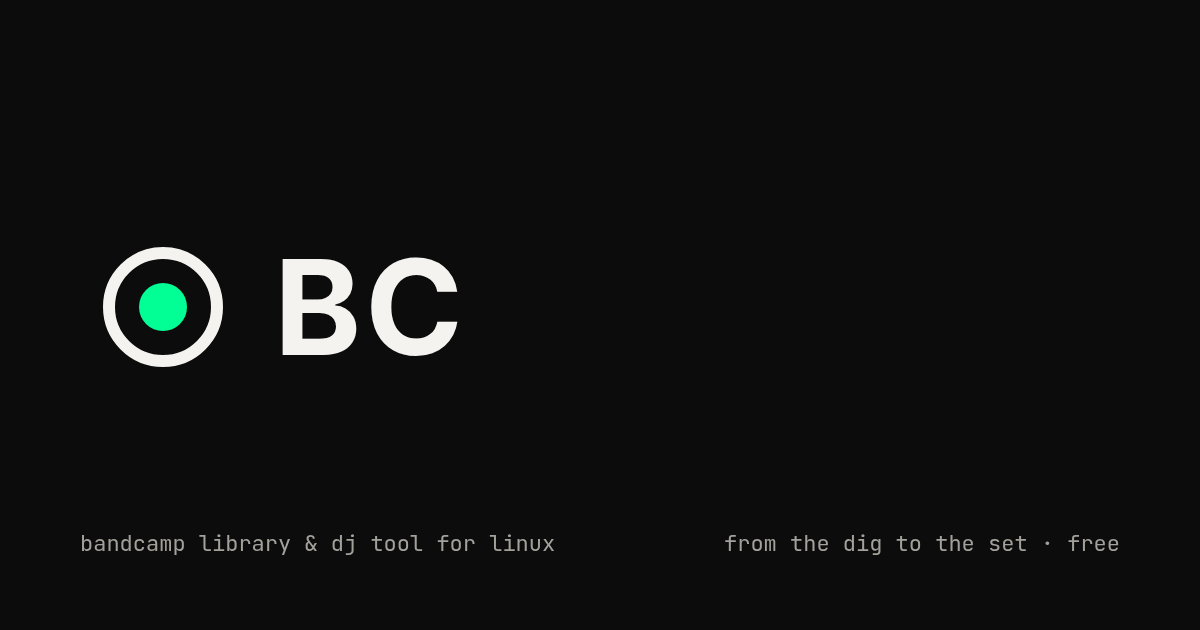
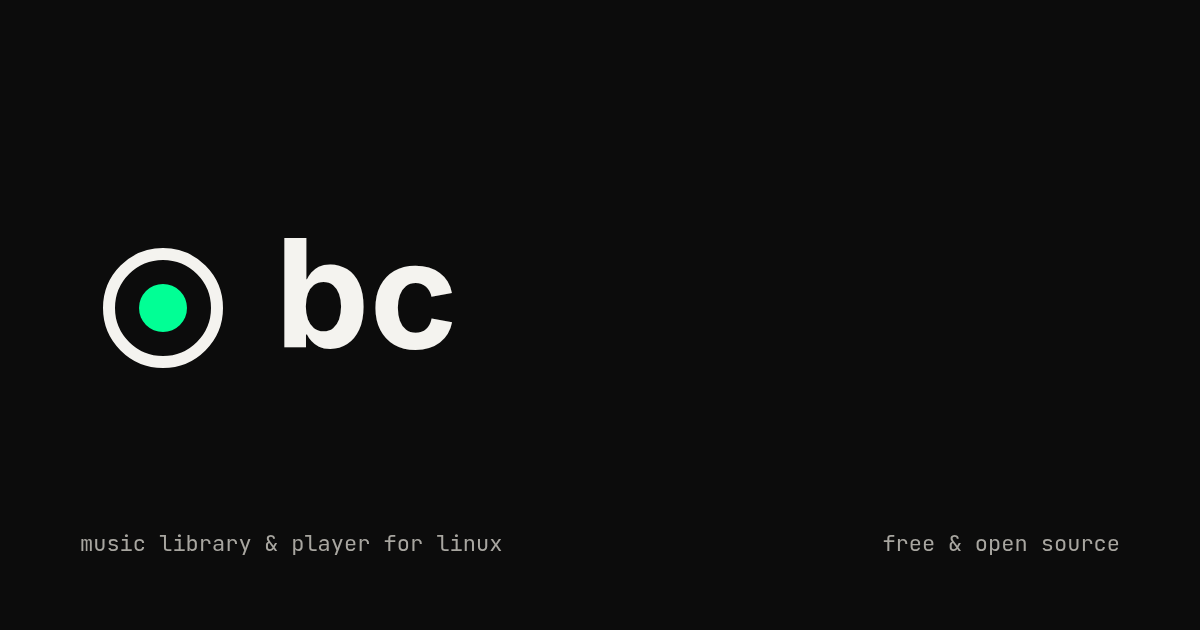
Update Open Graph metadata and improve page title and description for clarity

diff --git a/website/index.html b/website/index.html
@@ -3,8 +3,8 @@
 <head>
 <meta charset="utf-8">
 <meta name="viewport" content="width=device-width, initial-scale=1">
-<title>bc — bandcamp library &amp; dj tool for linux</title>
-<meta name="description" content="bc is a free, native Rust app for Linux that takes music from Bandcamp discovery to your DJ set: a fast library for collections of any size, Bandcamp explore and downloads, analysis, playlists, automixed DJ sets and a real-time audio engine.">
+<title>bc · music library &amp; player for linux</title>
+<meta name="description" content="bc is a free and open source music library and player for Linux, written in Rust, with Bandcamp search and downloads built in.">
 <meta name="theme-color" content="#F4F3EF" media="(prefers-color-scheme: light)">
 <meta name="theme-color" content="#0C0C0C" media="(prefers-color-scheme: dark)">
 <script>
@@ -20,9 +20,9 @@ try {
 <link rel="preload" href="assets/fonts/inter-latin-wght-normal.woff2" as="font" type="font/woff2" crossorigin>
 <link rel="stylesheet" href="style.css">
 <meta property="og:type" content="website">
-<meta property="og:title" content="bc — bandcamp library &amp; dj tool for linux">
-<meta property="og:description" content="From the dig to the set: Bandcamp discovery and downloads, a library without row caps, analysis and automixed DJ sets. Native Rust, free and open source.">
-<meta property="og:image" content="assets/img/og.png">
+<meta property="og:title" content="bc · music library &amp; player for linux">
+<meta property="og:description" content="Music library and player for Linux with Bandcamp search and downloads. Written in Rust, free and open source.">
+<meta property="og:image" content="assets/img/og.png?v=2">
 <meta name="twitter:card" content="summary_large_image">
 </head>
 <body>
@@ -37,8 +37,9 @@ try {
     </a>
     <div class="nav-links">
       <a href="#features">Features</a>
+      <a href="#library">Library</a>
+      <a href="#player">Player</a>
       <a href="#bandcamp">Bandcamp</a>
-      <a href="#sets">DJ sets</a>
       <a href="https://github.com/birkmann/bc-01">Source</a>
       <button class="theme-toggle" type="button" aria-label="Dark mode" aria-pressed="false">
         <svg class="sun" viewBox="0 0 24 24" aria-hidden="true"><circle cx="12" cy="12" r="4"/><path d="M12 2v2M12 20v2M4.9 4.9l1.4 1.4M17.7 17.7l1.4 1.4M2 12h2M20 12h2M4.9 19.1l1.4-1.4M17.7 6.3l1.4-1.4"/></svg>
@@ -52,9 +53,9 @@ try {
 <main id="main">
 
 <section class="wrap hero" id="top">
-  <span class="label">bandcamp library &amp; dj tool for linux · v0.1.0 · free &amp; open source</span>
-  <h1>From the dig<br>to the set.</h1>
-  <p class="lead">Find music on Bandcamp, keep it in a library that stays fast however large it grows, and mix it into DJ sets — one native app, written in Rust.</p>
+  <span class="label">linux · v0.1.0 · free &amp; open source</span>
+  <h1>Music library<br>and player.</h1>
+  <p class="lead">bc manages and plays your local music collection. Bandcamp search and downloads are built in. Written in Rust.</p>
   <div class="actions">
     <a class="pill pill-signal" href="#install">Install for Linux</a>
     <a class="pill pill-outline" href="https://github.com/birkmann/bc-01">View source</a>
@@ -69,31 +70,31 @@ try {
 </figure>
 
 <section class="wrap proof" aria-label="Measured results">
-  <div><span class="num">13&nbsp;ms</span><span class="what">to fetch a page of tracks from deep in a large library, sorted on the server</span></div>
-  <div><span class="num">1.5&nbsp;s</span><span class="what">from launch to a ready library — the Python app it replaces needed 110&nbsp;s</span></div>
-  <div><span class="num">0.05&nbsp;ms</span><span class="what">beatmatch phase error, measured through PipeWire on real hardware, 0 xruns</span></div>
-  <div><span class="num">kill&nbsp;-9</span><span class="what">a download killed mid-file resumes cleanly — never a truncated or untagged file</span></div>
+  <div><span class="num">1.5&nbsp;s</span><span class="what">from launch to a ready library. The previous Python version took 110&nbsp;s.</span></div>
+  <div><span class="num">13&nbsp;ms</span><span class="what">to load 200 tracks at row 74,000, sorted on the server</span></div>
+  <div><span class="num">41&nbsp;ms</span><span class="what">or less for a full-text search</span></div>
+  <div><span class="num">0.7&nbsp;s</span><span class="what">to rescan the whole library when nothing has changed</span></div>
 </section>
 
 <section class="wrap section" id="features">
-  <h2>Everything between the find and the floor.</h2>
+  <h2>Features</h2>
   <div class="grid features">
-    <article><span class="idx">01</span><h3>A library without limits</h3><p>Every track in one list, sorted and filtered on the server, full-text search in milliseconds and smooth scrolling.</p></article>
-    <article><span class="idx">02</span><h3>Bandcamp, built in</h3><p>Search Bandcamp, browse tags and new arrivals, and stream a release before you keep it — without leaving the app.</p></article>
-    <article><span class="idx">03</span><h3>Feed &amp; fans</h3><p>Follow artists and labels, walk the collections and wishlists of fans with your taste, and harvest new releases into an inbox.</p></article>
-    <article><span class="idx">04</span><h3>Durable downloads</h3><p>A job queue with leases and crash recovery. Files are tagged, synced and renamed atomically, and checked against what you already have.</p></article>
-    <article><span class="idx">05</span><h3>Analysis</h3><p>Tempo, beats and downbeats, Camelot key, energy, real EBU R128 loudness and a three-band waveform for every track.</p></article>
-    <article><span class="idx">06</span><h3>Player</h3><p>Gapless playback through a native real-time engine with EQ, filter, echo and limiter — plus media keys and a tray icon.</p></article>
-    <article><span class="idx">07</span><h3>DJ sets</h3><p>Plan a set, let automix order it, fine-tune each transition on a timeline and render the result to MP3 or WAV.</p></article>
-    <article><span class="idx">08</span><h3>Recommendations</h3><p>Next up, similar tracks and taste: three recommenders that run locally on your own library and listening.</p></article>
+    <article><span class="idx">01</span><h3>Library</h3><p>Scans your music folders into SQLite. Albums, artists, labels, tags, loved tracks, favourites, play history and Top 10. Full-text search, no row limit.</p></article>
+    <article><span class="idx">02</span><h3>Metadata</h3><p>Edit tags with a dry run and undo. Clean up junk files and strays, check releases for missing tracks, move library folders.</p></article>
+    <article><span class="idx">03</span><h3>Player</h3><p>Gapless playback, queue, history, shuffle and auto-fill. EQ, filter and limiter. MPRIS media keys and a tray icon.</p></article>
+    <article><span class="idx">04</span><h3>Analysis</h3><p>Tempo, key, energy, EBU R128 loudness and a three-band waveform for every track.</p></article>
+    <article><span class="idx">05</span><h3>Recommendations</h3><p>Next up, similar tracks and taste, computed locally from your library and listening history.</p></article>
+    <article><span class="idx">06</span><h3>Bandcamp</h3><p>Search Bandcamp, browse tag pages, preview releases, follow artists and labels, and browse other fans' collections.</p></article>
+    <article><span class="idx">07</span><h3>Downloads</h3><p>A download queue that resumes after a crash. Files are tagged on download and added to the library.</p></article>
+    <article><span class="idx">08</span><h3>DJ sets</h3><p>Optional: order tracks by key and tempo with automix, edit transitions on a timeline, render to WAV or MP3.</p></article>
   </div>
 </section>
 
 <section class="wrap section split" id="library">
   <div class="copy">
-    <h2>Your whole collection. No row cap.</h2>
-    <p>bc sorts, filters and searches on the server, so the list holds your whole collection — not the first 500 rows. Jump anywhere and the page is there before you notice it loading.</p>
-    <p>Waveforms are measured on an absolute <span class="kbd">dB</span> scale, so a quiet master looks quiet, and drawn on the GPU with the playhead at your display's refresh rate.</p>
+    <h2>Library</h2>
+    <p>Sorting, filtering and search run on the server, so the track list shows the whole collection instead of the first 500 rows. Columns include BPM, key, length, date added, play count and a waveform.</p>
+    <p>Waveforms use an absolute <span class="kbd">dB</span> scale, so quiet masters look quiet. They are drawn on the GPU.</p>
   </div>
   <figure class="shot shot-detail">
     <picture>
@@ -101,6 +102,11 @@ try {
       <img src="assets/img/bc-tracks.png?v=2" width="1800" height="1125" alt="The bc track list with a demo library: title, artist, album, BPM, key, time, date added, plays and a waveform per row, with tag filters in the sidebar." loading="lazy">
     </picture>
   </figure>
+</section>
+
+<section class="wrap section" id="player">
+  <h2>Player</h2>
+  <p class="lead narrow">A native audio engine with gapless playback, EQ, filter, echo, limiter and key lock. Queue, history, shuffle and auto-fill. Media keys work through MPRIS. The same audio code runs in the browser, so a phone on the local network can open bc and play through its own speaker.</p>
 </section>
 
 <section class="dark" id="bandcamp">
@@ -122,41 +128,27 @@ try {
   </div>
 </section>
 
-<section class="wrap section split" id="sets">
-  <div class="copy">
-    <h2>Plan a set. Let it mix.</h2>
-    <p>Put tracks in a pool and <span class="kbd">Automix</span> orders them by harmonic key and tempo and places mix points on phrase boundaries. Arrange lays the set out on two lanes: drag a clip edge to trim it, drag a transition to change how long it blends.</p>
-    <p>Play it live with the planner — up next, wishes and auto-fill — or render the whole set to a file.</p>
-  </div>
-  <figure class="shot shot-detail">
-    <picture>
-      <source srcset="assets/img/bc-sets.webp?v=2" type="image/webp">
-      <img src="assets/img/bc-sets.png?v=2" width="1800" height="719" alt="The DJ Sets overview: four demo sets with cover mosaics, track counts, length and average BPM." loading="lazy">
-    </picture>
-  </figure>
-</section>
-
 <section class="wrap section" id="stack">
-  <h2>Rust, all the way down.</h2>
-  <p class="lead narrow">One workspace of 23 crates, the interface included. The desktop app runs the server in-process and shows the UI in a Chromium app window; the same UI serves your phone and other browsers on your network, with device pairing.</p>
+  <h2>Built with Rust</h2>
+  <p class="lead narrow">A workspace of 23 crates, including the interface. The desktop app runs the server and shows the UI in a Chromium app window. Other devices on the local network can open the same UI after pairing.</p>
   <ul class="grid hardware">
     <li><span class="hw">Leptos interface, compiled to WebAssembly</span><span class="proto">bc-ui</span></li>
     <li><span class="hw">axum server with a typed WebSocket hub</span><span class="proto">bc-server</span></li>
     <li><span class="hw">SQLite in WAL mode, FTS5 search, one writer</span><span class="proto">bc-db</span></li>
     <li><span class="hw">Real-time audio engine on cpal, MPRIS</span><span class="proto">bc-engine</span></li>
-    <li><span class="hw">Decks, EQ, filters, echo, key lock</span><span class="proto">bc-dsp · native + wasm</span></li>
+    <li><span class="hw">EQ, filters, echo, key lock</span><span class="proto">bc-dsp · native + wasm</span></li>
     <li><span class="hw">Tempo, key, loudness, waveforms</span><span class="proto">bc-analysis</span></li>
     <li><span class="hw">GPU waveforms, WebGL2 with Canvas2D fallback</span><span class="proto">bc-waveform</span></li>
     <li><span class="hw">Bandcamp client, crawler and downloader</span><span class="proto">bc-bandcamp · bc-jobs</span></li>
   </ul>
-  <p class="note">bc is an independent project and is not affiliated with or endorsed by Bandcamp. Support the artists you dig: buy the music you keep.</p>
+  <p class="note">bc is an independent project and is not affiliated with or endorsed by Bandcamp.</p>
 </section>
 
 <section class="install" id="install">
   <div class="wrap section">
     <svg class="mark mark-lg" viewBox="0 0 100 100" fill="none" aria-hidden="true"><circle cx="50" cy="50" r="36" stroke="#F4F3EF" stroke-width="6"/><circle cx="50" cy="50" r="15" fill="#01FF95"/></svg>
     <h2>Get bc.</h2>
-    <p class="lead">Builds from source and installs into <code>~/.local</code> — no root needed.</p>
+    <p class="lead">Builds from source and installs into <code>~/.local</code>. No root needed.</p>
     <div class="code" role="group" aria-label="Install commands">
       <pre><code><span class="prompt">$</span> git clone https://github.com/birkmann/bc-01.git bc
 <span class="prompt">$</span> cd bc &amp;&amp; ./scripts/install.sh
@@ -166,7 +158,7 @@ try {
     <div class="install-more">
       <div>
         <h3>Arch Linux</h3>
-        <p><code>cd packaging &amp;&amp; makepkg -si</code> — installs <code>bc-desktop</code>, the <code>bc-rust</code> command line tool and the icons system-wide.</p>
+        <p><code>cd packaging &amp;&amp; makepkg -si</code> installs <code>bc-desktop</code>, the <code>bc-rust</code> command line tool and the icons system-wide.</p>
       </div>
       <div>
         <h3>Requirements</h3>
